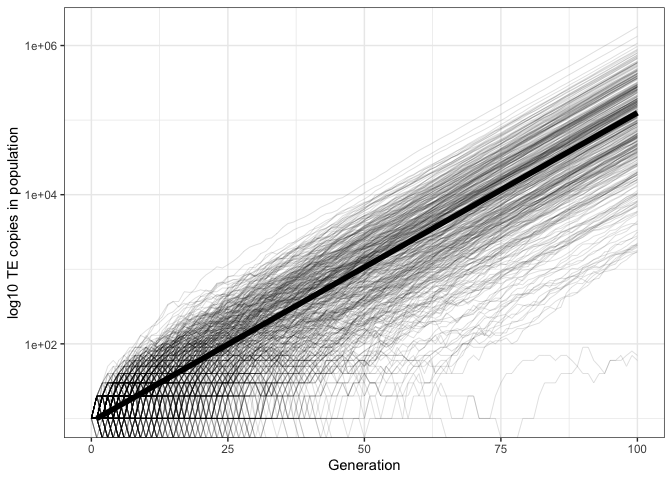
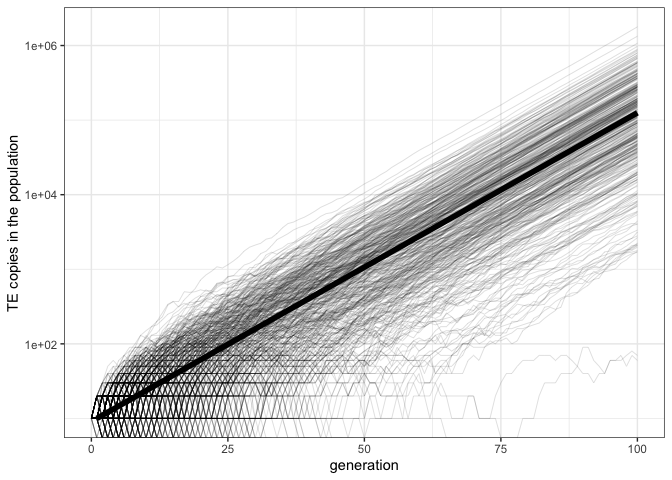
Labels fixed

Changed region(s): [[0.0, 0.25, 0.0312, 0.6562], [0.4688, 0.9375, 0.5938, 1.0]]

diff --git a/Validation/2022_08_01_Validation_1_invasion.md b/Validation/2022_08_01_Validation_1_invasion.md
@@ -66,7 +66,7 @@ validation<-read.table("Raw/2022_08_01_Validation_1_invasion")
 names(validation)<-c("rep", "gen", "popstat", "fmale", "spacer_1", "fwte", "avw", "avtes", "avpopfreq", "fixed","spacer_2","phase","fwpirna","spacer_3","fwcli","avcli","fixcli","spacer_4","fwpar_yespi","fwpar_nopi",
                      "avpar","fixpar","spacer_5","piori")
 
-gl<-ggplot()+geom_line(data=validation,aes(x=gen,group=rep,y=avtes*1000),alpha=0.15,size=0.3)+scale_y_log10()+geom_line(data=theo,aes(x=x,y=y),size=2)+theme(legend.position="none")+ylab("log10 TE copies in population")+xlab("Generation")
+gl<-ggplot()+geom_line(data=validation,aes(x=gen,group=rep,y=avtes*1000),alpha=0.15,size=0.3)+scale_y_log10()+geom_line(data=theo,aes(x=x,y=y),size=2)+theme(legend.position="none")+ylab("TE copies in the population")+xlab("generation")
 plot(gl)
 ```
 
